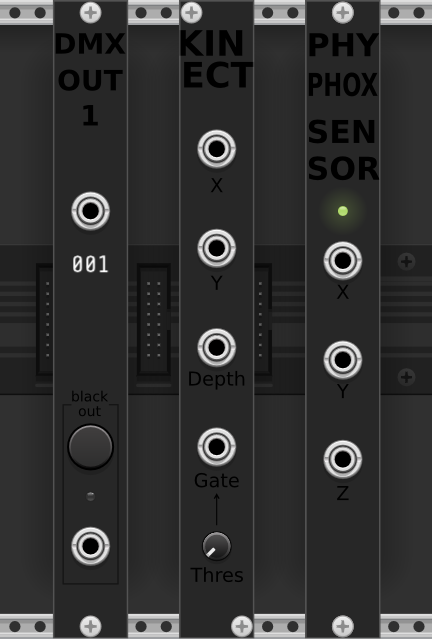
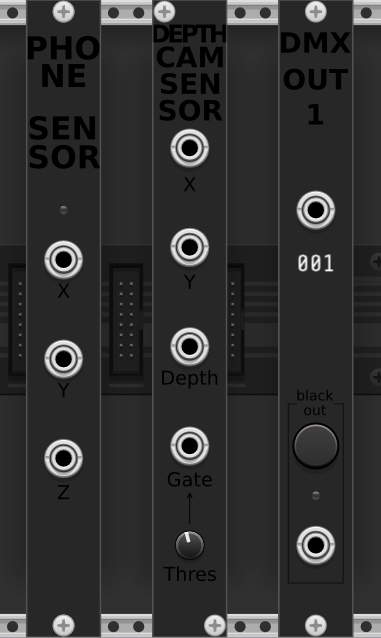
Rename to DepthCamSensor

diff --git a/src/depthcam/DepthCamSensorWidget.cpp b/src/depthcam/DepthCamSensorWidget.cpp
@@ -1,22 +1,22 @@
-#include "KinectSensorWidget.hpp"
+#include "DepthCamSensorWidget.hpp"
 
-KinectSensorWidget::KinectSensorWidget(KinectSensor* moduleParam) {
+DepthCamSensorWidget::DepthCamSensorWidget(DepthCamSensor* moduleParam) {
     module = moduleParam;
     setModule(module);
-    setPanel(createPanel(asset::plugin(pluginInstance, "res/kinect.svg")));
+    setPanel(createPanel(asset::plugin(pluginInstance, "res/depthcam-sensor.svg")));
 
     addChild(createWidget<ScrewSilver>(Vec(0, 0)));
     addChild(createWidget<ScrewSilver>(Vec(RACK_GRID_WIDTH * 2, RACK_GRID_HEIGHT - RACK_GRID_WIDTH)));
 
-    addParam(createParamCentered<Trimpot>(mm2px(Vec(7.625, 110)), module, KinectSensor::THRESHOLD_PARAM));
+    addParam(createParamCentered<Trimpot>(mm2px(Vec(7.625, 110)), module, DepthCamSensor::THRESHOLD_PARAM));
 
-    addOutput(createOutputCentered<PJ301MPort>(mm2px(Vec(7.625, 30)), module, KinectSensor::OUT_HAND_X));
-    addOutput(createOutputCentered<PJ301MPort>(mm2px(Vec(7.625, 50)), module, KinectSensor::OUT_HAND_Y));
-    addOutput(createOutputCentered<PJ301MPort>(mm2px(Vec(7.625, 70)), module, KinectSensor::OUT_HAND_DEPTH));
-    addOutput(createOutputCentered<PJ301MPort>(mm2px(Vec(7.625, 90)), module, KinectSensor::OUT_HAND_DEPTH_THRESHOLD));
+    addOutput(createOutputCentered<PJ301MPort>(mm2px(Vec(7.625, 30)), module, DepthCamSensor::OUT_HAND_X));
+    addOutput(createOutputCentered<PJ301MPort>(mm2px(Vec(7.625, 50)), module, DepthCamSensor::OUT_HAND_Y));
+    addOutput(createOutputCentered<PJ301MPort>(mm2px(Vec(7.625, 70)), module, DepthCamSensor::OUT_HAND_DEPTH));
+    addOutput(createOutputCentered<PJ301MPort>(mm2px(Vec(7.625, 90)), module, DepthCamSensor::OUT_HAND_DEPTH_THRESHOLD));
 }
 
-void KinectSensorWidget::appendContextMenu(Menu* menu) {
+void DepthCamSensorWidget::appendContextMenu(Menu* menu) {
     menu->addChild(new MenuSeparator);
     menu->addChild(createIndexPtrSubmenuItem("Sensor tilt",
         {

diff --git a/src/depthcam/DepthCamSensor.cpp b/src/depthcam/DepthCamSensor.cpp
@@ -1,4 +1,4 @@
-#include "KinectSensor.hpp"
+#include "DepthCamSensor.hpp"
 #include "../util/utils.hpp"
 
 using namespace std;
@@ -17,7 +17,7 @@ float upperThreshold = 45 * 10.f;
 
 bool thresholdPassed = false;
 
-KinectSensor::KinectSensor() {
+DepthCamSensor::DepthCamSensor() {
     config(NUM_PARAMS, 0, NUM_OUTPUTS);
 
     configParam(THRESHOLD_PARAM, 100.f, 1000.f, 500.f, "Depth threshold", " mm");
@@ -43,18 +43,18 @@ KinectSensor::KinectSensor() {
     startKinectThread();
 }
 
-KinectSensor::~KinectSensor() {
+DepthCamSensor::~DepthCamSensor() {
     running = false;
     if (kinectThread.joinable()) {
         kinectThread.join();
     }
 }
 
-int KinectSensor::toDegrees(TiltDegrees tilt) {
+int DepthCamSensor::toDegrees(TiltDegrees tilt) {
     return tilt * 5;
 }
 
-void KinectSensor::startKinectThread() {
+void DepthCamSensor::startKinectThread() {
     kinectThread = std::thread([this]() {
         if (debug) {
             cout << "starting device" << endl;
@@ -99,7 +99,7 @@ void KinectSensor::startKinectThread() {
     }
 }
 
-void KinectSensor::process(const ProcessArgs& args) {
+void DepthCamSensor::process(const ProcessArgs& args) {
     if (!hasDevice) {
         return;
     }
@@ -152,4 +152,4 @@ void KinectSensor::process(const ProcessArgs& args) {
     timeSinceLastLoop = 0.0f;
 }
 
-Model* modelKinectSensor = createModel<KinectSensor, KinectSensorWidget>("KinectSensor");
+Model* modelDepthCamSensor = createModel<DepthCamSensor, DepthCamSensorWidget>("DepthCamSensor");

diff --git a/src/depthcam/DepthCamSensor.hpp b/src/depthcam/DepthCamSensor.hpp
@@ -1,6 +1,6 @@
 #pragma once
 #include "../plugin.hpp"
-#include "KinectSensorWidget.hpp"
+#include "DepthCamSensorWidget.hpp"
 #include "HandTracker.hpp"
 #include <thread>
 #include <atomic>
@@ -19,7 +19,7 @@ using namespace std;
 
 using namespace rack;
 
-struct KinectSensor : Module {
+struct DepthCamSensor : Module {
     enum ParamIds {
         THRESHOLD_PARAM,
         NUM_PARAMS
@@ -61,8 +61,8 @@ struct KinectSensor : Module {
     TiltDegrees tiltRequest = TILT_0;
     TiltDegrees currentTilt = TILT_0;
 
-    KinectSensor();
-    ~KinectSensor();
+    DepthCamSensor();
+    ~DepthCamSensor();
 
     void startKinectThread();
     void process(const ProcessArgs& args) override;

diff --git a/src/depthcam/DepthCamSensorWidget.hpp b/src/depthcam/DepthCamSensorWidget.hpp
@@ -1,0 +1,17 @@
+#pragma once
+#include "../plugin.hpp"
+#include "DepthCamSensor.hpp"
+
+using namespace std;
+
+using namespace rack;
+
+struct DepthCamSensor;
+
+struct DepthCamSensorWidget : ModuleWidget {
+    DepthCamSensor* module;
+
+    DepthCamSensorWidget(DepthCamSensor* moduleParam);
+
+    void appendContextMenu(Menu* menu) override;
+};

diff --git a/src/plugin.cpp b/src/plugin.cpp
@@ -7,5 +7,5 @@ void init(Plugin* p) {
 
     p->addModel(modelDmxOut1);
     p->addModel(modelPhoneSensor);
-    p->addModel(modelKinectSensor);
+    p->addModel(modelDepthCamSensor);
 }

diff --git a/src/plugin.hpp b/src/plugin.hpp
@@ -7,4 +7,4 @@ extern Plugin* pluginInstance;
 
 extern Model *modelDmxOut1;
 extern Model *modelPhoneSensor;
-extern Model *modelKinectSensor;
+extern Model *modelDepthCamSensor;

diff --git a/src/depthcam/HandTracker.cpp b/src/depthcam/HandTracker.cpp
@@ -1,4 +1,3 @@
-// HandTracker.cpp
 #include <libfreenect.hpp>
 #include <vector>
 #include <mutex>

diff --git a/doc/depthcam.md b/doc/depthcam.md
@@ -1,30 +1,30 @@
-# KinectSensor module
+# DepthCamSensor module
 
 The Kinect sensor device has been used for many uses, further than just a gaming console accessory, especially in robotics.
 
 I wanted to allow people to get body movement as input signal into VCV Rack. For instance, controlling pitch and volume with the hands, like with a theremin.
 
-So i got my Kinect out from a drawer and started a VCV Rack module with the freenect lib.
+So i got my Kinect out from a drawer (because that's what i have) and started a VCV Rack module with the freenect lib.
 
 ## Important
 
-🚧 This module is experimental and a work-in-progress. 🚧
+🚧 This module is still experimental and a work-in-progress. 🚧
 
-For now, the module only supports the use of one Kinect sensor at a time. Also, there should be only one Kinect module placed on the rack. The use of several Kinect modules can lead to unwanted behavior.
+For now, the module only supports the use of one Kinect sensor at a time. Also, there should be only one instance of this module placed on the rack. The use of several DepthCamSensor modules can lead to unwanted behavior.
 
 Currently, the resulting signal is jittery and glitching, it needs further refining and corrections to be made smoother.
 
-The Kinect device must be plugged into the computer before starting VCV Rack ; and it shouldn't be unplugged until you remove the Kinect module from the rack.
+The Kinect device must be plugged into the computer before starting VCV Rack ; and it shouldn't be unplugged until you remove the DepthCamSensor module from the rack.
 
 ## Requirements
 
 Of course, the module requires a Kinect device to be connected to the PC.
 
-You cannot connect the Kinect to the PC directly, because it uses a specific proprietary connector (USB with an additional power pin for the motor), forbidding to plug it in a normal usb port. You'll either want to take the Kinect apart to rewire it to a generic USB plug (there are tutorials on the web for that), or to simply buy an appropriate adapter (it plugs to the proprietary connector, and to a power socket).
+You cannot connect the Kinect device to the PC directly, because it uses a specific proprietary connector (USB with an additional power pin for the motor), forbidding to plug it in a normal usb port. You'll either want to take the Kinect apart to rewire it to a generic USB plug (there are tutorials on the web for that), or to simply buy an appropriate adapter (it plugs to the proprietary connector, and to a power socket).
 
-## The KinectSensor module
+## The DepthCamSensor module
 
-![](kinect-sensor-module.png)
+![](depthcam-sensor-module.png)
 
 ## Outputs
 
@@ -32,7 +32,7 @@ The module has 4 outputs.
 
   - The first two (X and Y) output a 0-10V CV signal corresponding to the X and Y position of the closest object (usually, you'll use one hand in front of you).
   - The third output is the depth of the closest object.
-  - The fourth outputs either 10V or 0V, depending on wether the closest object is closer or further than a defined threshold.
+  - The fourth outputs either 10V or 0V, depending on wether depth of the closest object is closer or further than a defined threshold.
 
 ## Threshold parameter
 

diff --git a/Readme.md b/Readme.md
@@ -10,15 +10,15 @@ QualiaTouch is about giving the machine perception and action capabilities with 
 
 - PhoneSensor module : retrieves sensor data from the Phyphox app. Not affiliated with PhyPhox, just using their awesome app. Documentation [here](doc/phonesensor.md).
 
-## KinectSensor module
+## DepthCamSensor module
 
-- KinectSensor : retrieves hand position and depth from the Kinect sensor. This plugin is not affiliated with Kinect or Microsoft in any way. 🚧 Still experimental 🚧 Documentation [here](doc/kinect.md).
+- DepthCamSensor module : retrieves hand position and depth from the Kinect sensor from Microsoft. This plugin is not affiliated with Kinect or Microsoft in any way. 🚧 Still experimental 🚧 Documentation [here](doc/depthcam.md).
 
 ## DMX module
 
-If you know about the DMX protocol, then you've already understood what this module does.
+If you know about the DMX512 protocol, then you've already understood what this module does.
 
-- DMX OUT 1 : allows to send DMX data on one channel from the computer. You'll need an USB -> DMX OUT adapter and an appropriate driver. 🚧 Still experimental 🚧 Documentation [here](doc/dmx.md).
+- DMX OUT 1 : allows to send DMX data on one channel from the computer. You'll need an USB -> DMX OUT adapter and an appropriate driver. Documentation [here](doc/dmx.md).
 
 ## Contributing
 

diff --git a/doc/dmx.md b/doc/dmx.md
@@ -2,12 +2,6 @@
 
 The DMX modules allow you to send DMX data to lighting fixtures in real life, from signals in your modular synth patch.
 
-## Important
-
-🚧 THOSE MODULES ARE STILL EXPERIMENTAL 🚧
-
-There is no guarantee of any kind. Use at your own risk.
-
 ## Requirements
 
 - An USB -> DMX OUT adapter
